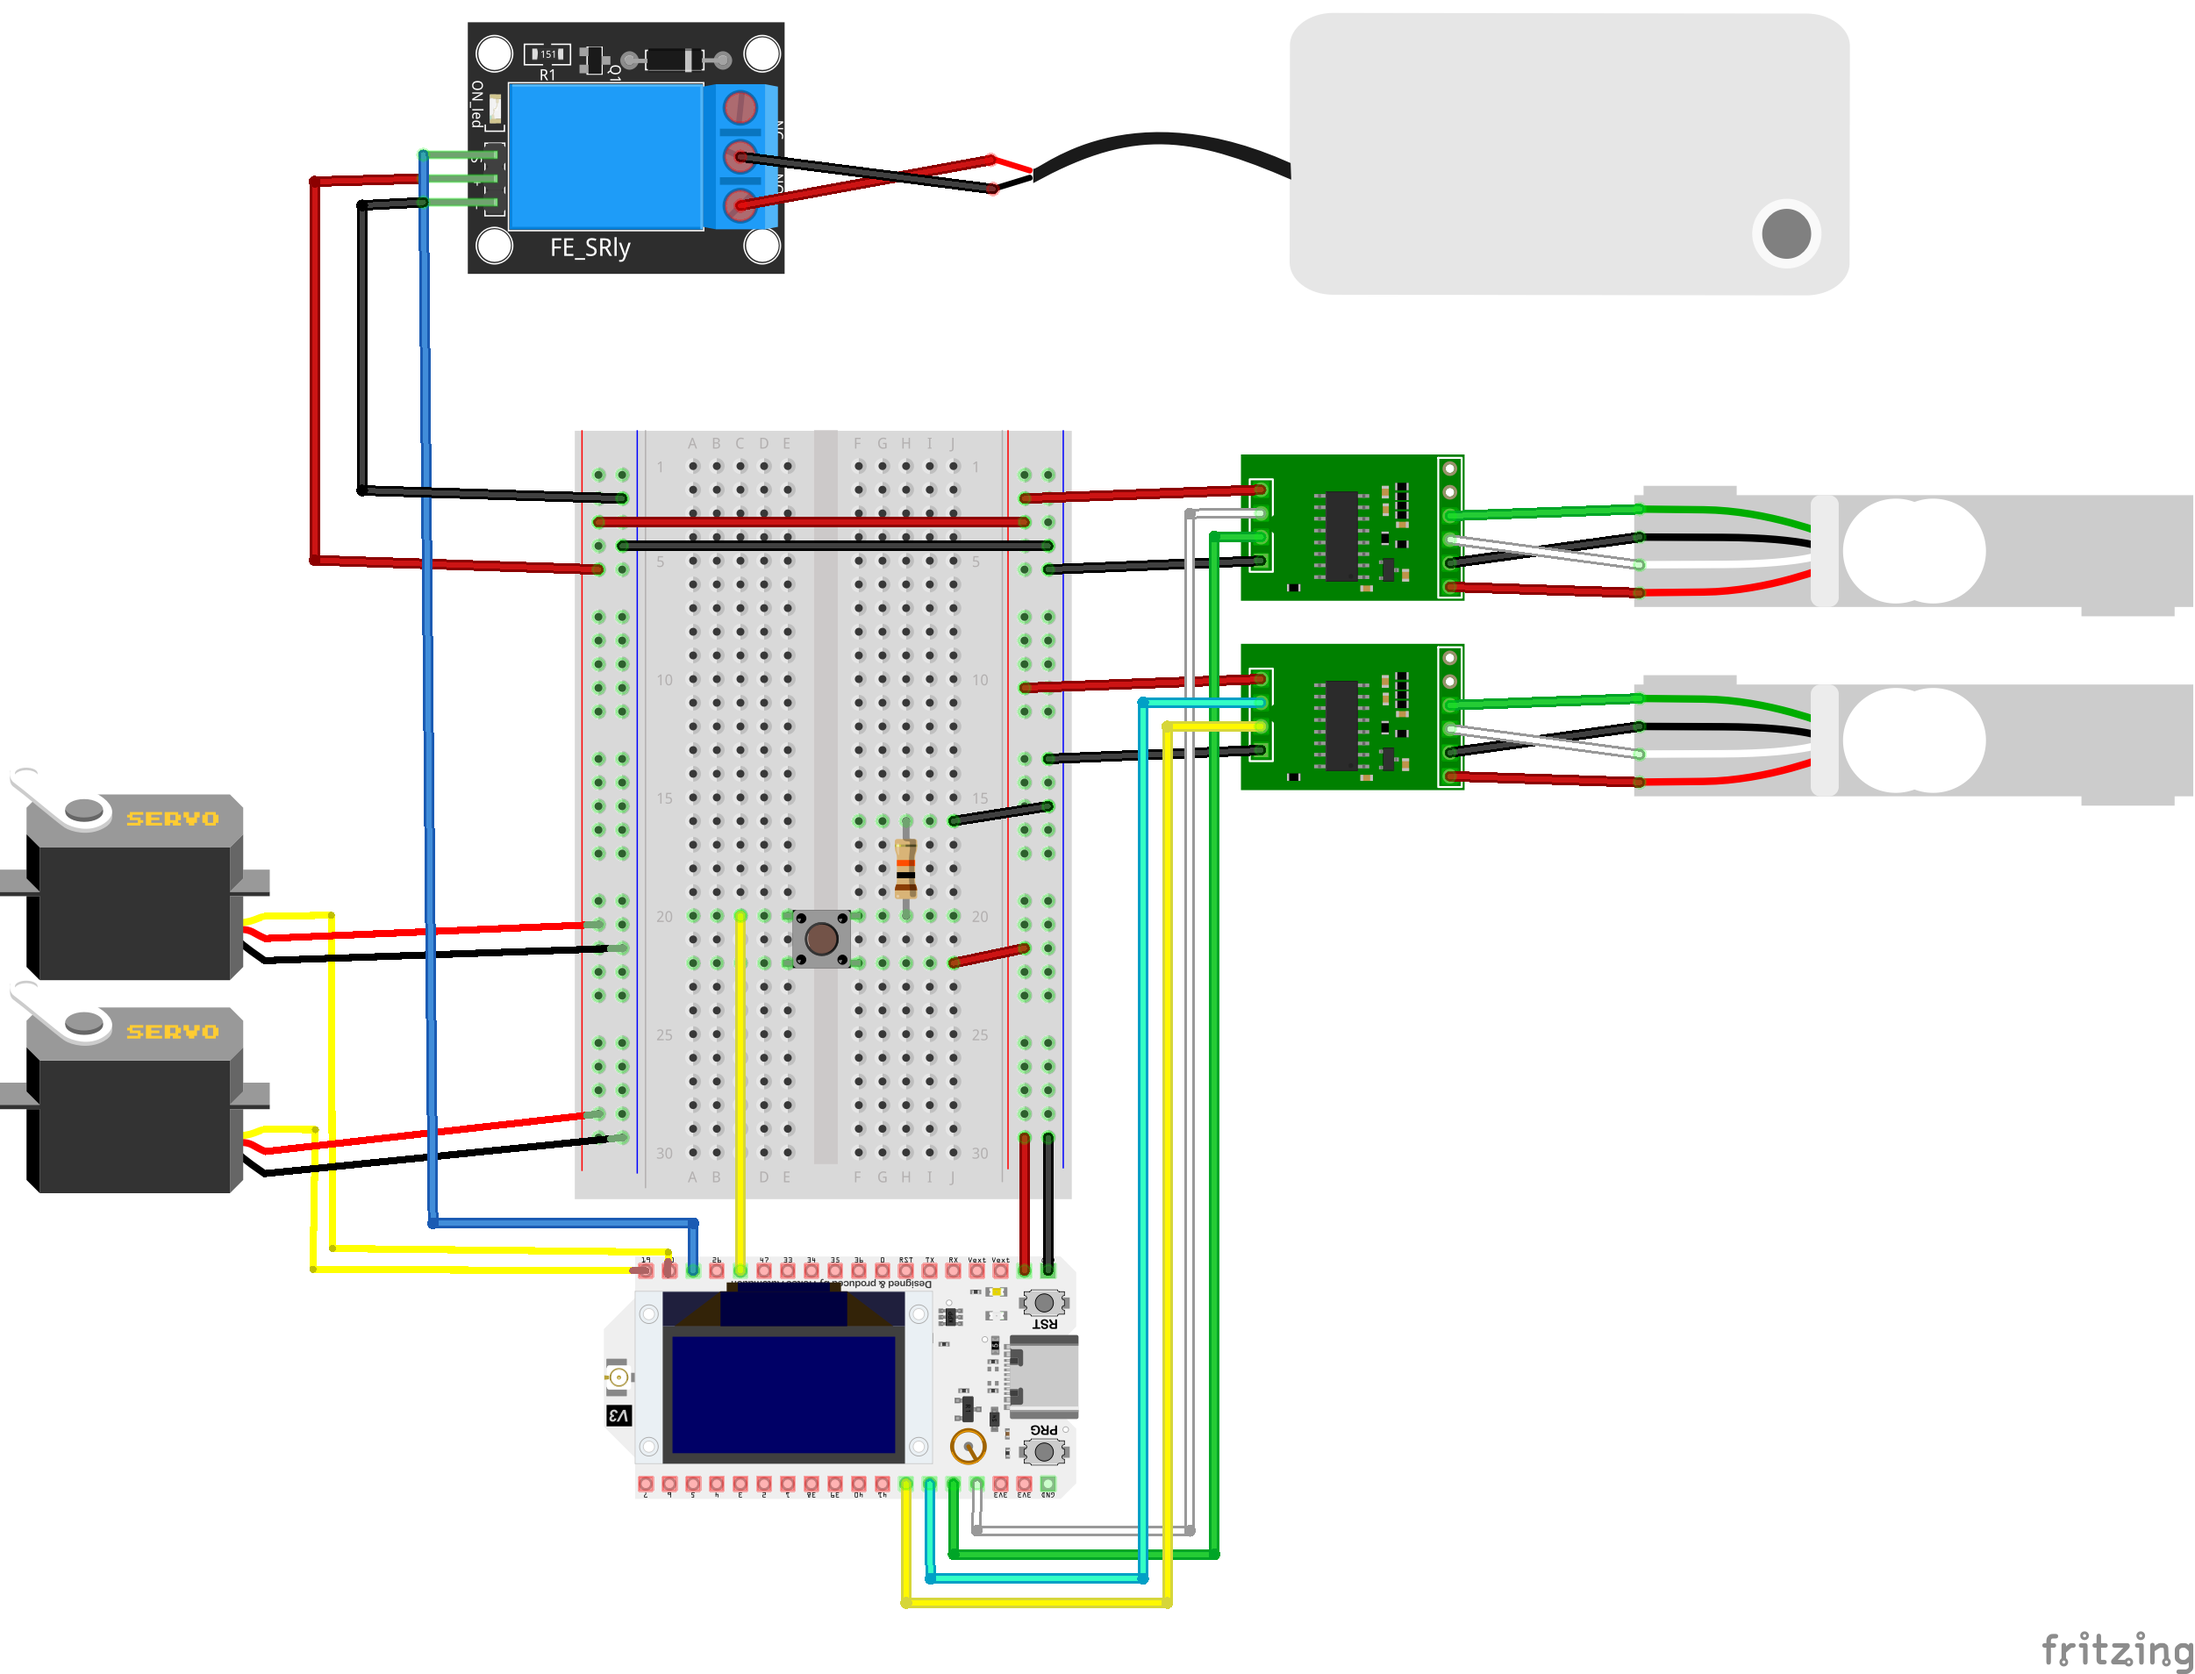
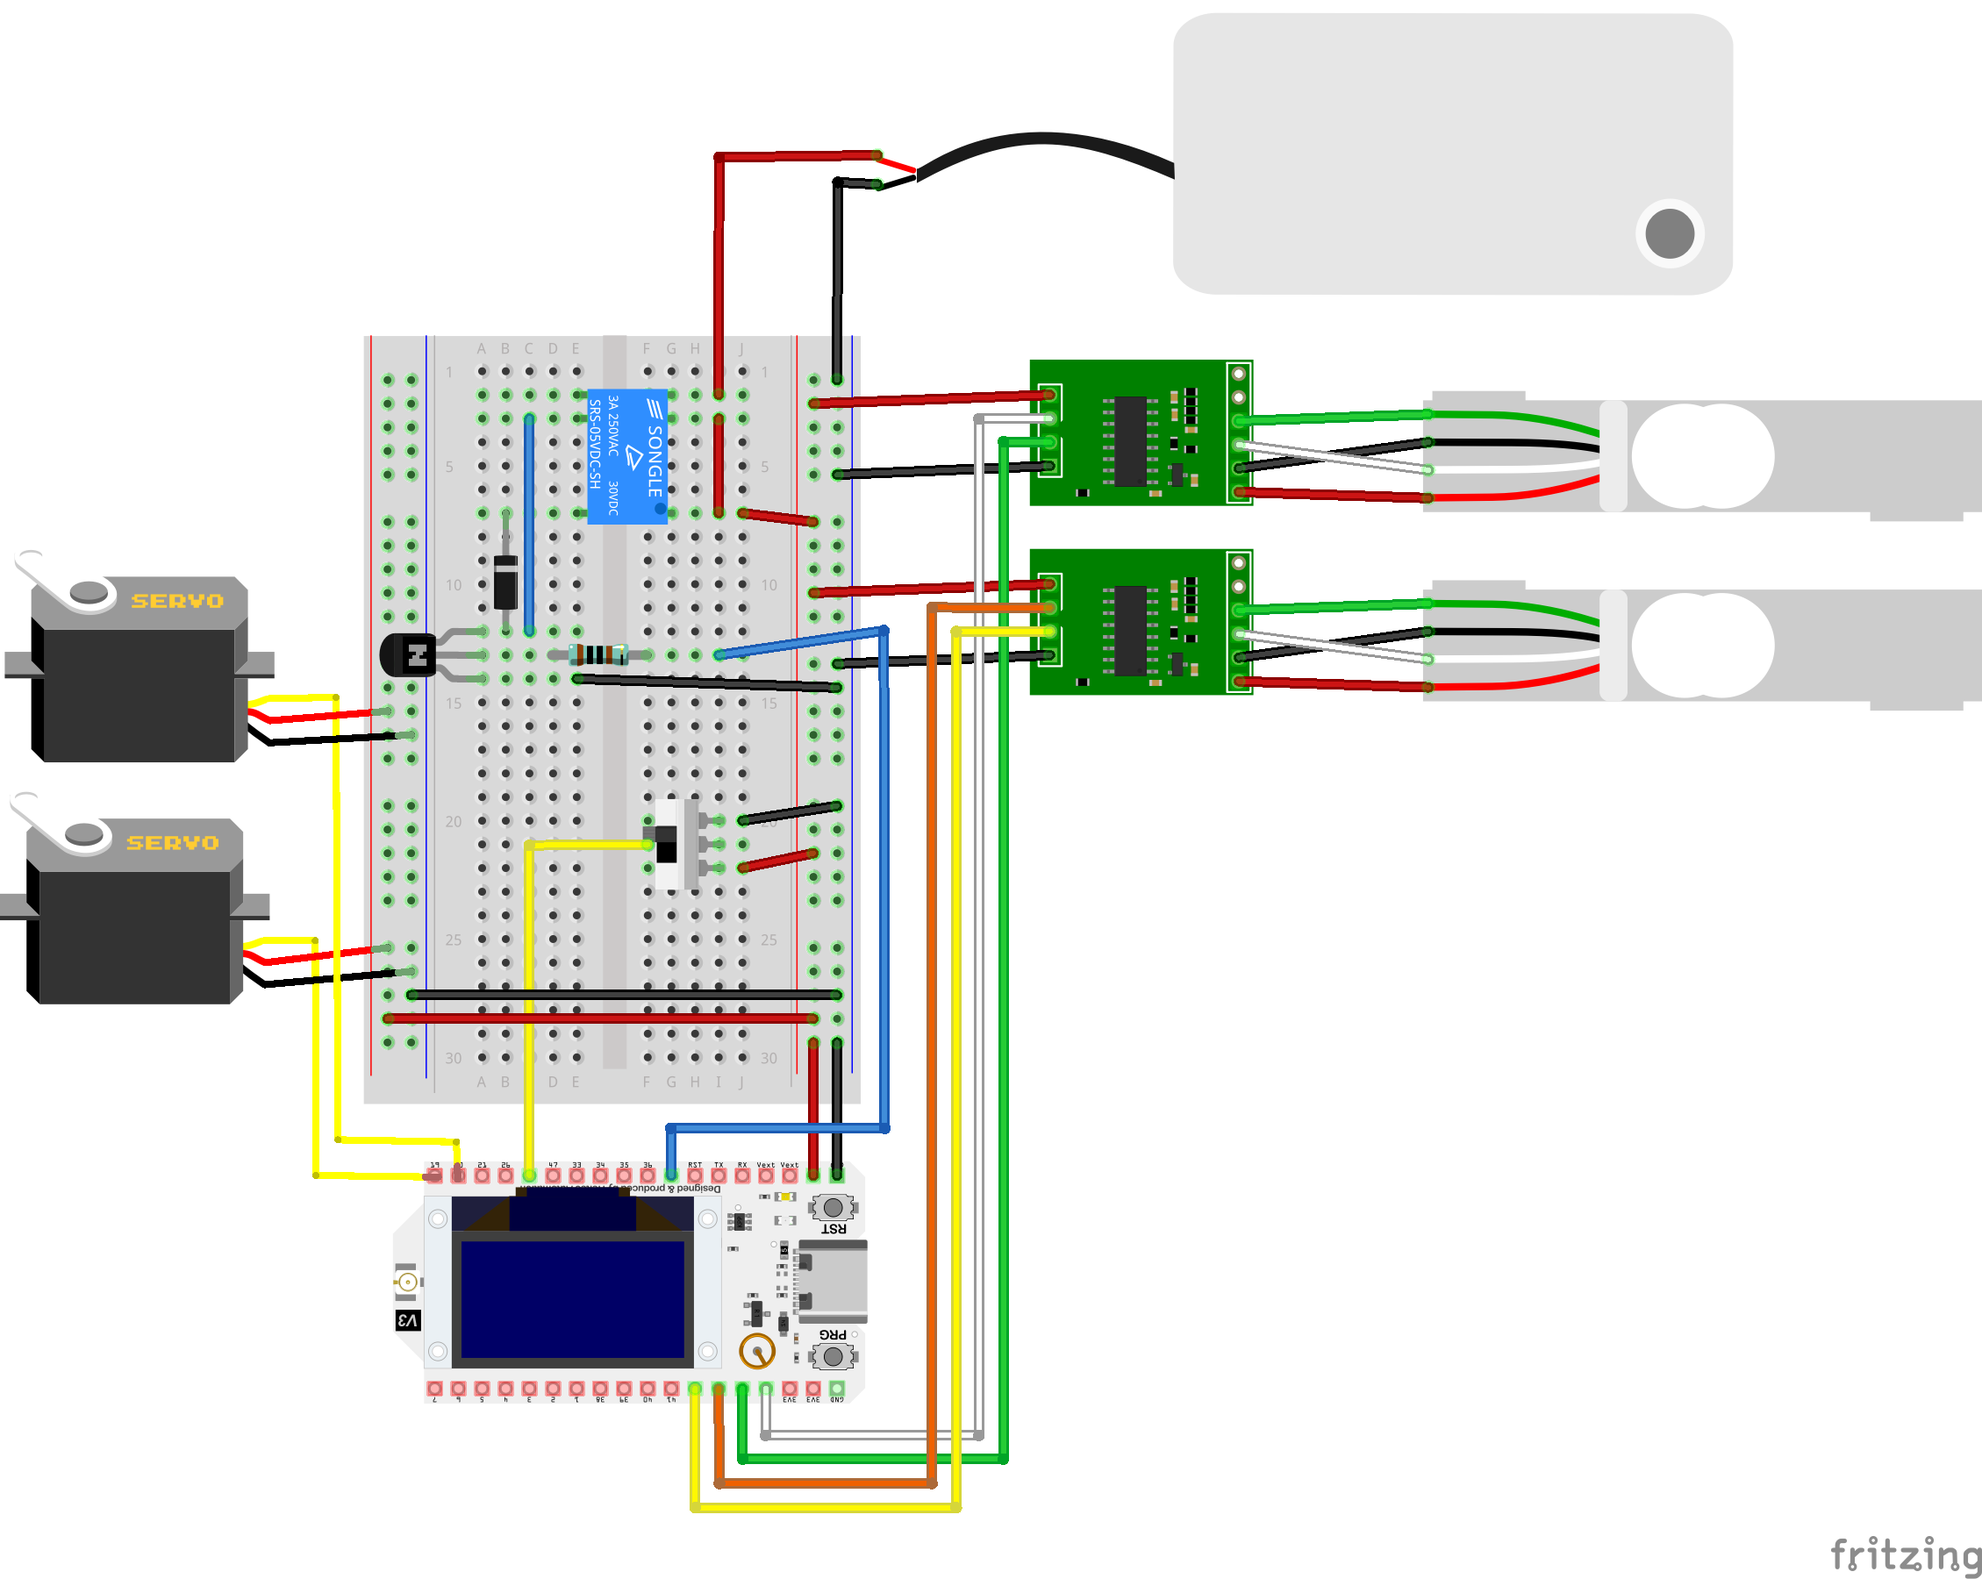
Update circuit

diff --git a/README.md b/README.md
@@ -32,7 +32,7 @@ By doing this, we can learn the dog's eating habits, like building a confidence 
 - **Load cell** sensor to measure the weight of the water in the bowl to quantify the liters of water in the bowl (the density of the water is about 1 Kg/L, considering the temperature of the water at room temperature and the pressure at sea level).
 Periodic sensing is required to measure over time the quantity of water in the bowl.
 By doing this, we can learn the dog's drinking habits, like building a confidence percentage of the amount of water the dog drinks at each time, to increase the power efficiency of the system.
-- **Button** to start or stop the autonomous dog feeder.
+- **Slide switch** to start or stop the autonomous dog feeder.
 
 ### Actuators
 
@@ -110,7 +110,7 @@ Data are collected from the load cell sensors via the HX711 amplifier, which is 
 - Cloud level:
   - Lambda data query: the Lambda function will query the DynamoDB table selecting the samples in a given interval of time.
   - Lambda data computation: the Lambda function will compute the sum of the food eaten and the sum of the water drunk in a given interval of time.
-  - Lambda data visualization: since we send only the samples with a value greater than 0, we need to add to these samples the samples with a value equal to 0, to have a complete visualization of the data. Then the Lambda function will return a web page with the data computed.
+  - Lambda data visualization: formatting data to be visualized on a web page. Then the Lambda function will return a web page with the data computed.
 
 ### Software architecture
 
